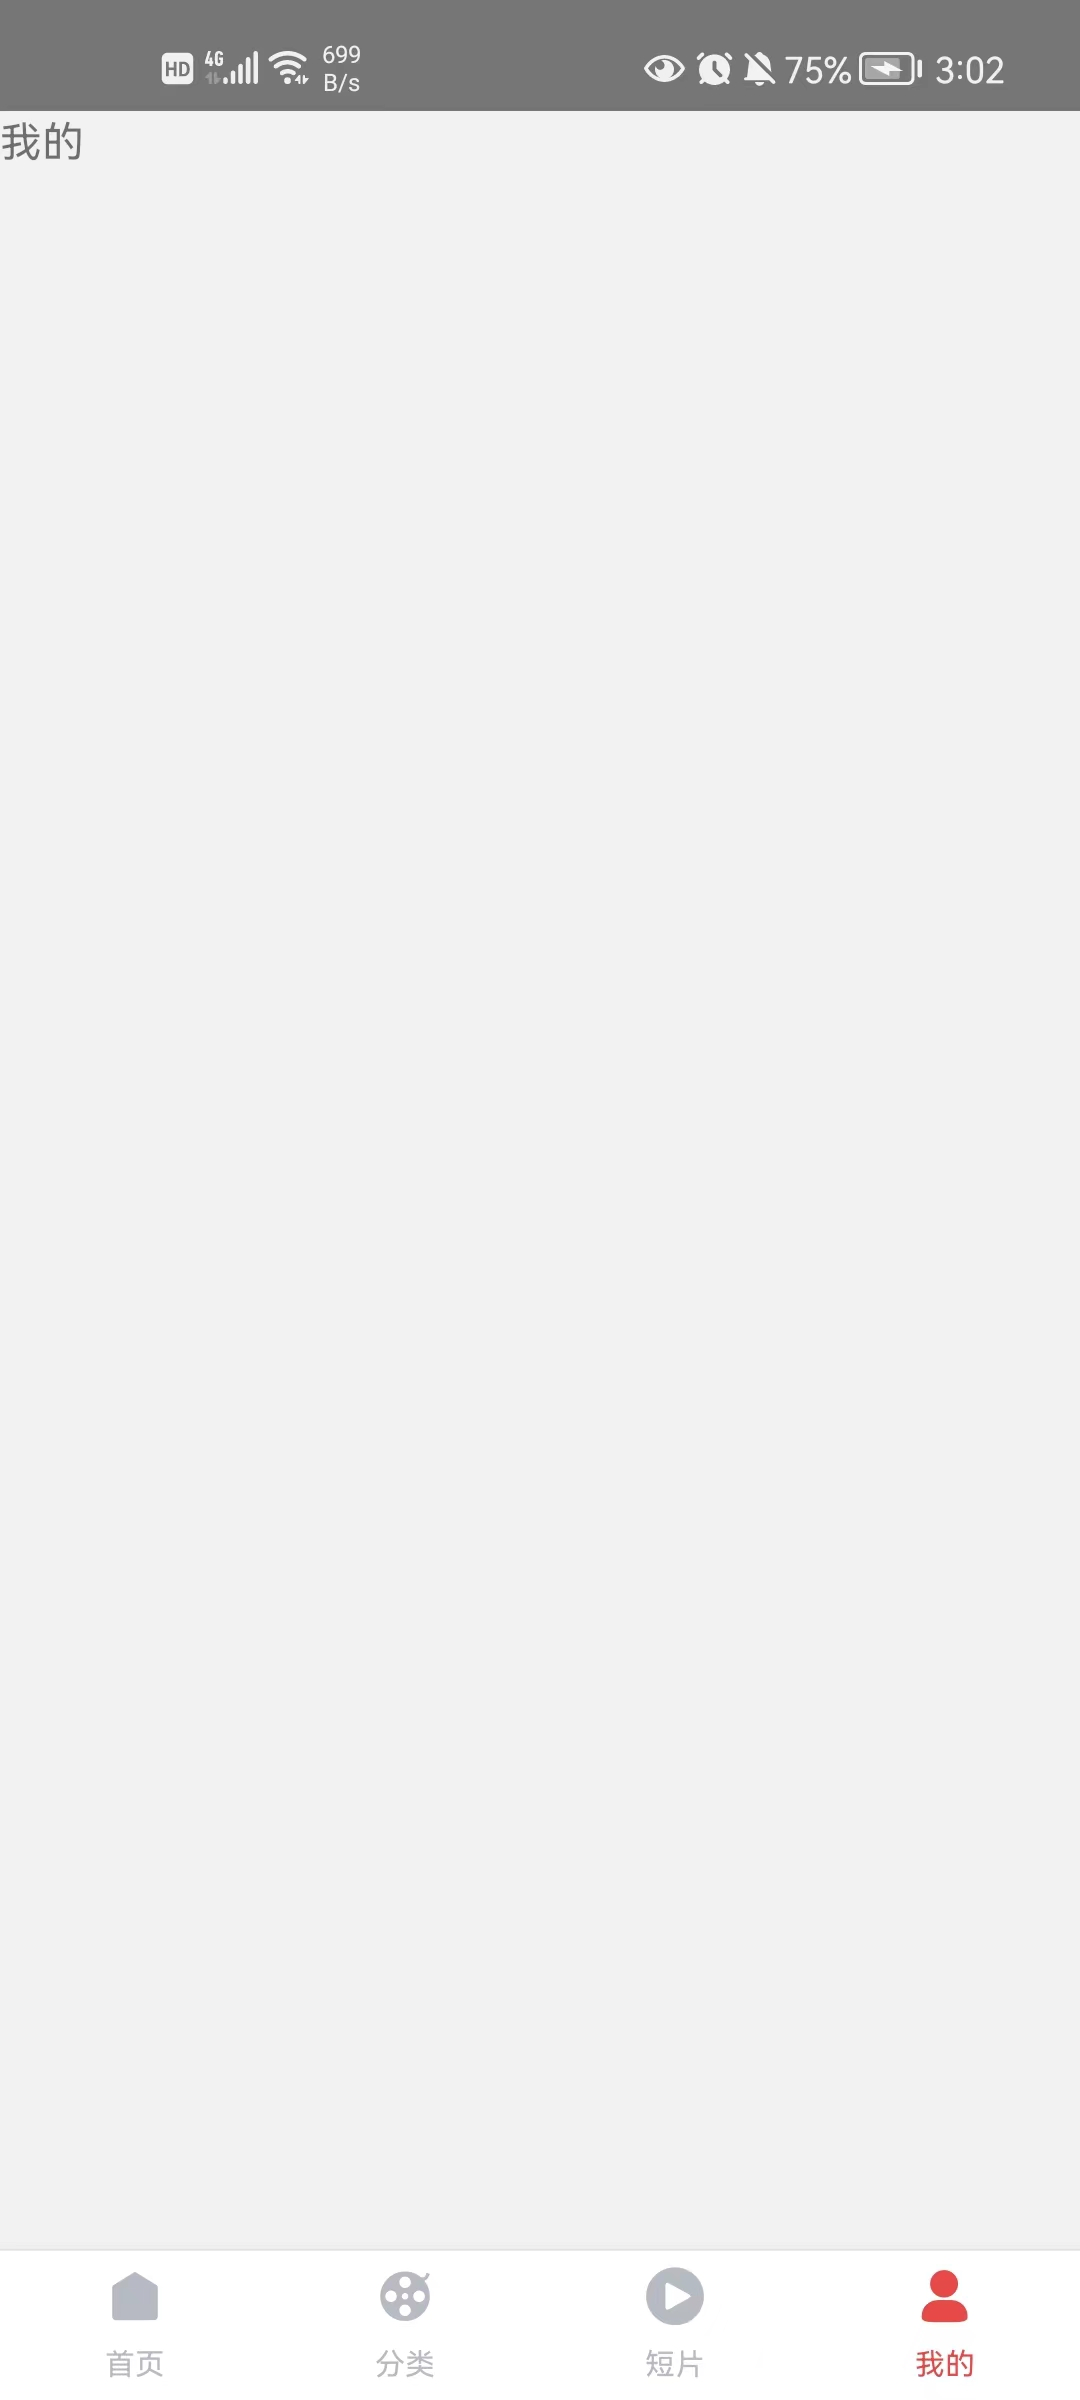
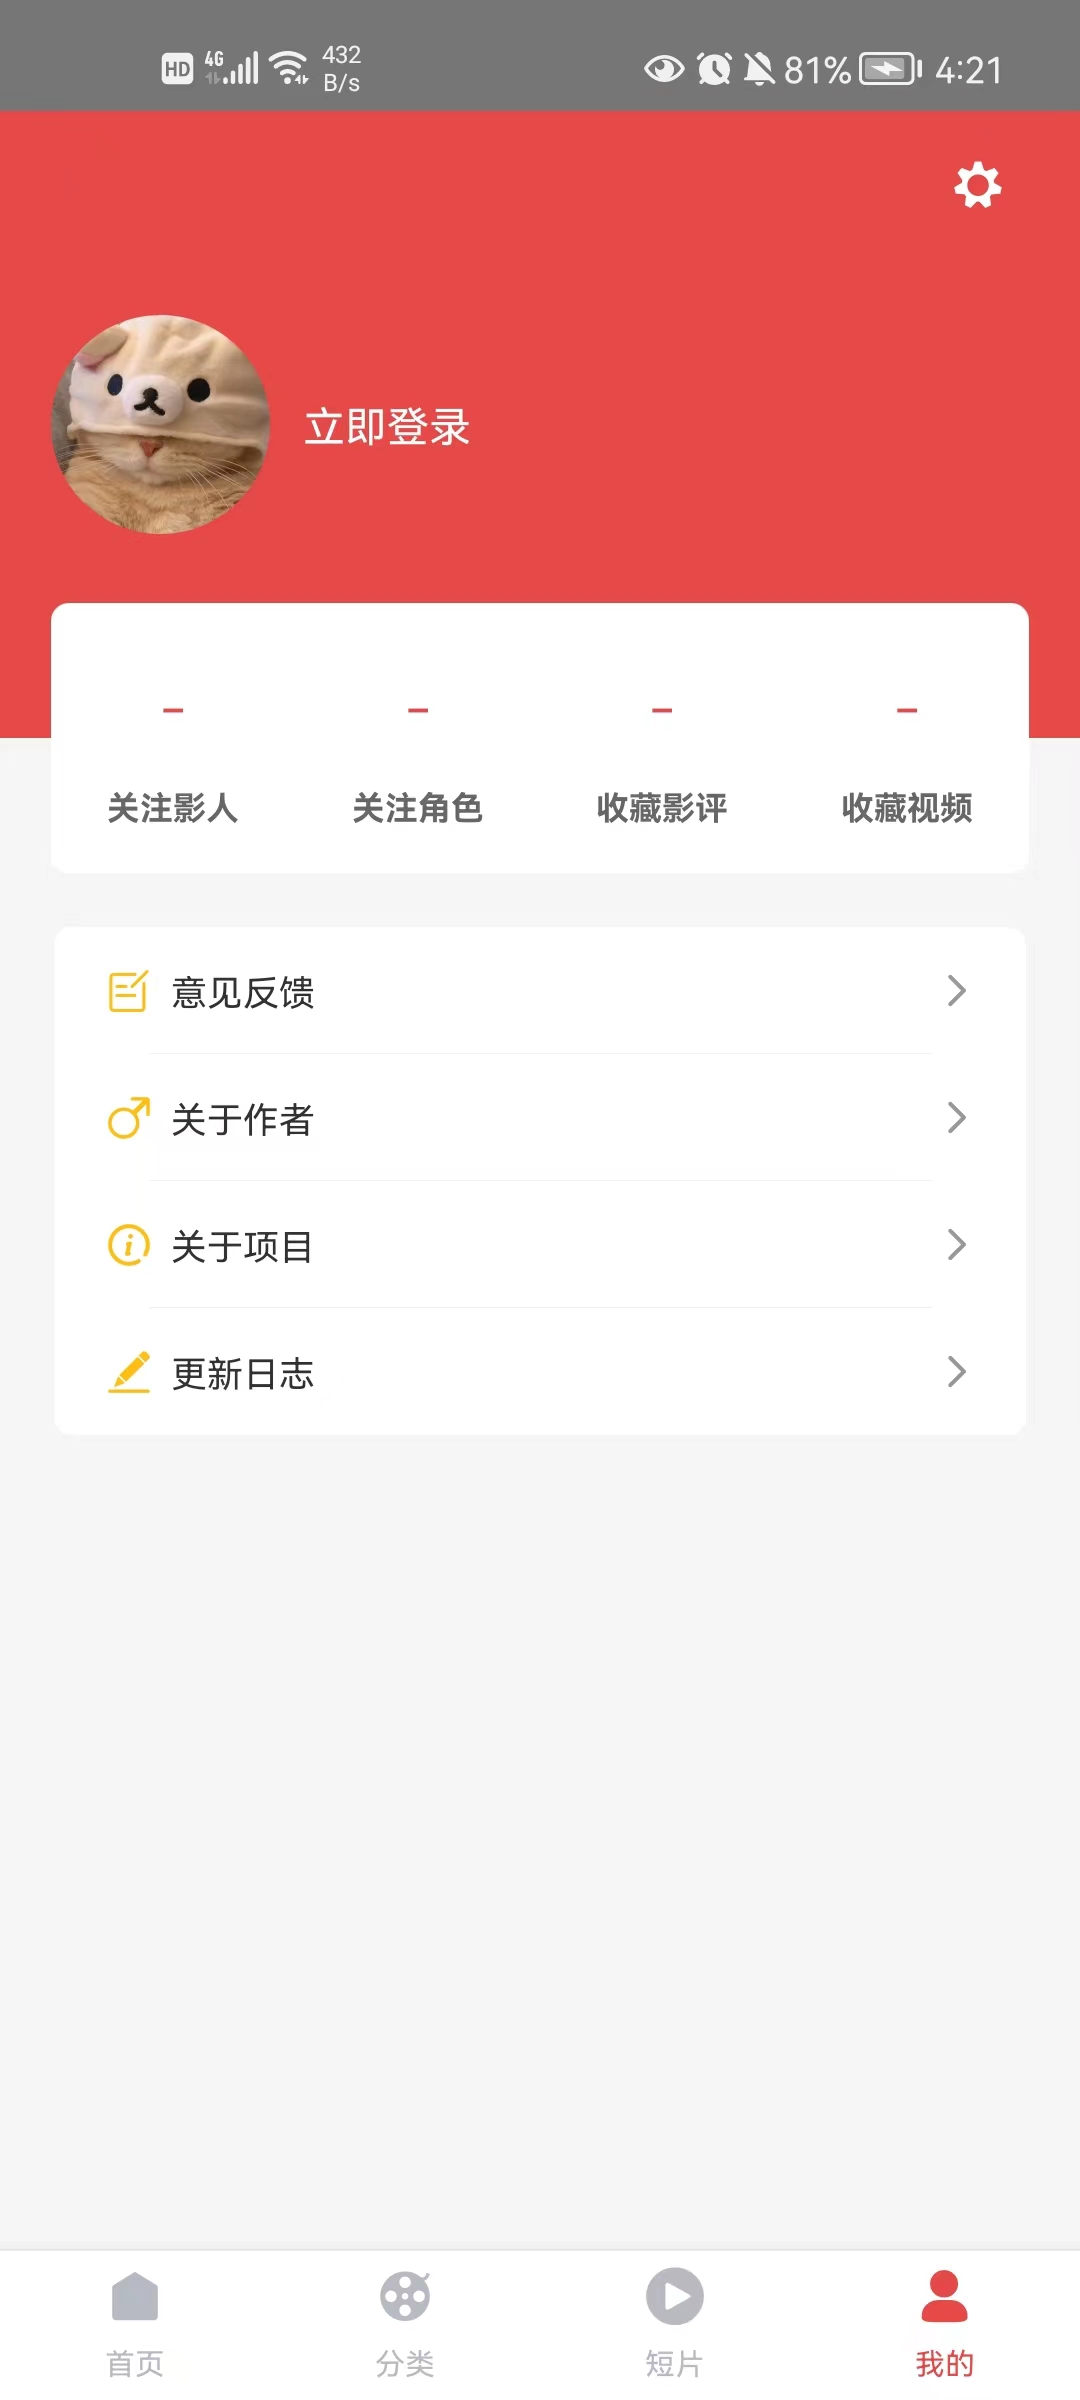
feat: 完成我的页面

diff --git a/src/views/mine/Mine.tsx b/src/views/mine/Mine.tsx
@@ -1,8 +1,177 @@
 import React from 'react';
-import { Text } from 'react-native';
+import { View, Text, Image, StyleSheet } from 'react-native';
+import { getScreenViewHeight } from '../../utils/screen';
+
+// 获取屏幕内容高度
+const viewHeight = getScreenViewHeight();
 
 function Mine(): React.ReactElement {
-  return <Text>我的</Text>;
+  return (
+    <View style={styles.mine}>
+      <View style={styles.userInfo}>
+        <Image
+          source={require('../../assets/image/default-avatar.jpg')}
+          resizeMode={'stretch'}
+          style={[styles.avatar]}
+        />
+        <Text style={styles.userText}>立即登录</Text>
+        <Text style={styles.settingIcon}>{'\ue65e'}</Text>
+      </View>
+      <View style={styles.menu}>
+        <View style={styles.menuItem}>
+          <Text style={styles.menuItemCount}>-</Text>
+          <Text style={styles.menuItemName}>关注影人</Text>
+        </View>
+        <View style={styles.menuItem}>
+          <Text style={styles.menuItemCount}>-</Text>
+          <Text style={styles.menuItemName}>关注角色</Text>
+        </View>
+        <View style={styles.menuItem}>
+          <Text style={styles.menuItemCount}>-</Text>
+          <Text style={styles.menuItemName}>收藏影评</Text>
+        </View>
+        <View style={styles.menuItem}>
+          <Text style={styles.menuItemCount}>-</Text>
+          <Text style={styles.menuItemName}>收藏视频</Text>
+        </View>
+      </View>
+      <View style={styles.cell}>
+        <View style={styles.cellItem}>
+          <Text style={styles.cellItemIcon}>{'\ue601'}</Text>
+          <Text style={styles.cellItemText}>意见反馈</Text>
+          <Text style={styles.cellItemArrow}>{'\ue906'}</Text>
+          <View style={styles.cellItemLine} />
+        </View>
+        <View style={styles.cellItem}>
+          <Text style={styles.cellItemIcon}>{'\ue634'}</Text>
+          <Text style={styles.cellItemText}>关于作者</Text>
+          <Text style={styles.cellItemArrow}>{'\ue906'}</Text>
+          <View style={styles.cellItemLine} />
+        </View>
+        <View style={styles.cellItem}>
+          <Text style={styles.cellItemIcon}>{'\ue655'}</Text>
+          <Text style={styles.cellItemText}>关于项目</Text>
+          <Text style={styles.cellItemArrow}>{'\ue906'}</Text>
+          <View style={styles.cellItemLine} />
+        </View>
+        <View style={styles.cellItem}>
+          <Text style={styles.cellItemIcon}>{'\ue60b'}</Text>
+          <Text style={styles.cellItemText}>更新日志</Text>
+          <Text style={styles.cellItemArrow}>{'\ue906'}</Text>
+        </View>
+      </View>
+    </View>
+  );
 }
+
+const styles = StyleSheet.create({
+  mine: {
+    minHeight: viewHeight,
+    backgroundColor: '#f5f5f5'
+  },
+  userInfo: {
+    position: 'relative',
+    display: 'flex',
+    flexDirection: 'row',
+    justifyContent: 'flex-start',
+    alignItems: 'center',
+    paddingLeft: 17,
+    paddingRight: 17,
+    height: 209,
+    backgroundColor: '#e54847'
+  },
+  avatar: {
+    width: 73,
+    height: 73,
+    borderRadius: 100
+  },
+  userText: {
+    marginLeft: 11,
+    color: '#fff'
+  },
+  settingIcon: {
+    position: 'absolute',
+    top: 16,
+    right: 25,
+    fontFamily: 'iconfont',
+    fontSize: 18,
+    color: '#fff'
+  },
+  menu: {
+    display: 'flex',
+    flexDirection: 'row',
+    justifyContent: 'space-between',
+    alignItems: 'center',
+    marginTop: -45,
+    marginRight: 17,
+    marginLeft: 17,
+    height: 90,
+    backgroundColor: '#fff',
+    borderRadius: 6
+  },
+  menuItem: {
+    display: 'flex',
+    flexDirection: 'column',
+    justifyContent: 'center',
+    alignItems: 'center',
+    flex: 1
+  },
+  menuItemCount: {
+    width: 9,
+    height: 36,
+    lineHeight: 36,
+    fontSize: 18,
+    color: '#e54847',
+    borderRadius: 100
+  },
+  menuItemName: {
+    marginTop: 9,
+    fontSize: 11,
+    fontFamily: 'inherit',
+    fontWeight: 'bold',
+    color: '#666'
+  },
+  cell: {
+    margin: 18,
+    backgroundColor: '#fff',
+    borderRadius: 6
+  },
+  cellItem: {
+    position: 'relative',
+    display: 'flex',
+    flexDirection: 'row',
+    alignItems: 'center',
+    paddingTop: 13,
+    paddingBottom: 13,
+    marginRight: 17,
+    marginLeft: 17
+  },
+  cellItemIcon: {
+    marginRight: 6,
+    fontFamily: 'iconfont',
+    fontSize: 16,
+    color: 'rgb(255, 190, 16)'
+  },
+  cellItemText: {
+    flex: 1,
+    fontSize: 12,
+    color: '#303133'
+  },
+  cellItemArrow: {
+    marginLeft: 13,
+    fontFamily: 'iconfont',
+    fontStyle: 'normal',
+    fontSize: 12,
+    color: 'rgb(153, 153, 153)'
+  },
+  cellItemLine: {
+    position: 'absolute',
+    left: '5%',
+    bottom: 0,
+    width: '90%',
+    height: 0.38,
+    backgroundColor: '#eee'
+  }
+});
 
 export default Mine;

diff --git a/src/views/movies/Movies.tsx b/src/views/movies/Movies.tsx
@@ -46,7 +46,7 @@ function Movies(): React.ReactElement {
   };
 
   return (
-    <ScrollView showsVerticalScrollIndicator={false} style={styles.container}>
+    <ScrollView showsVerticalScrollIndicator={false} style={styles.movie}>
       <Nav onChange={navChange} />
       <View style={styles.list}>
         {movie.map(item => {
@@ -74,13 +74,14 @@ function Movies(): React.ReactElement {
 }
 
 const styles = StyleSheet.create({
-  container: {
+  movie: {
     minHeight: viewHeight,
     backgroundColor: '#fff'
   },
   list: {
     display: 'flex',
     flexDirection: 'row',
+    justifyContent: 'space-evenly',
     flexWrap: 'wrap',
     paddingTop: 10,
     paddingBottom: 15,
